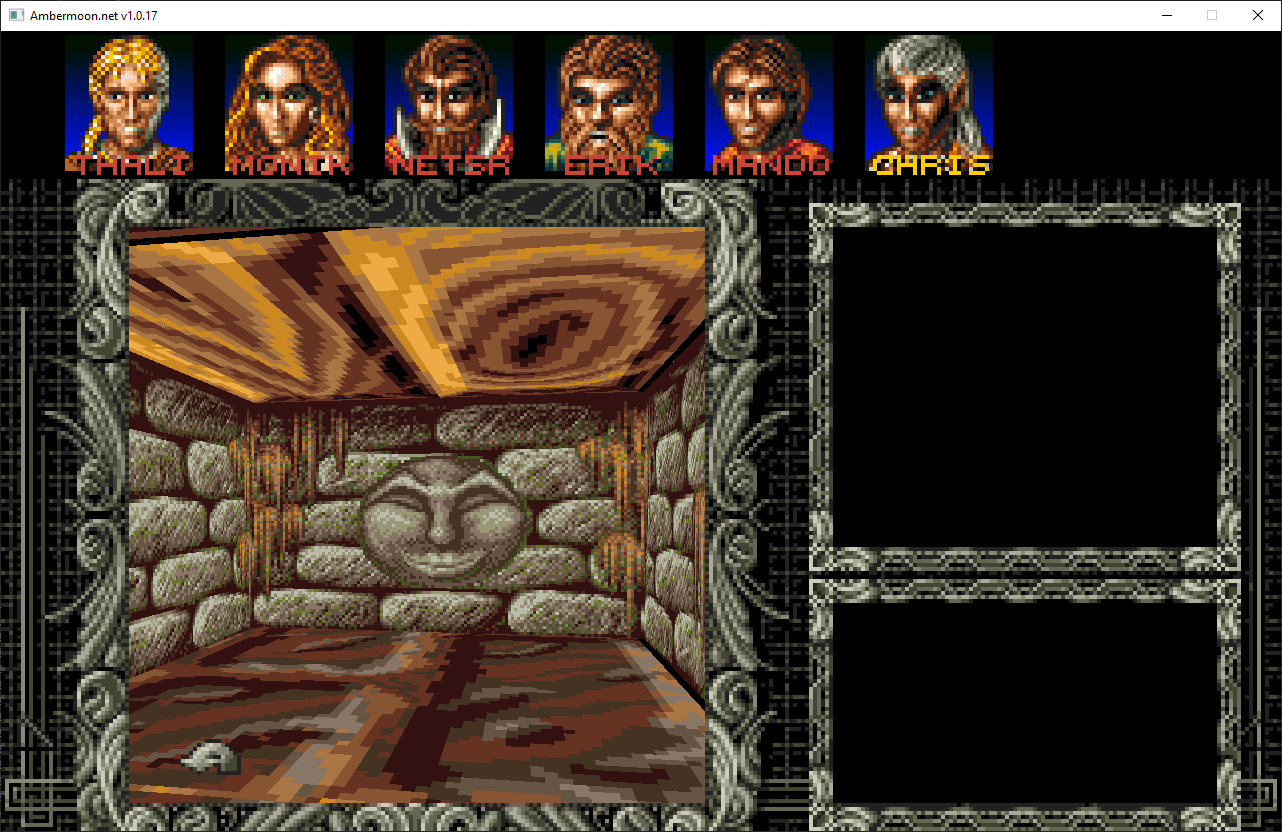
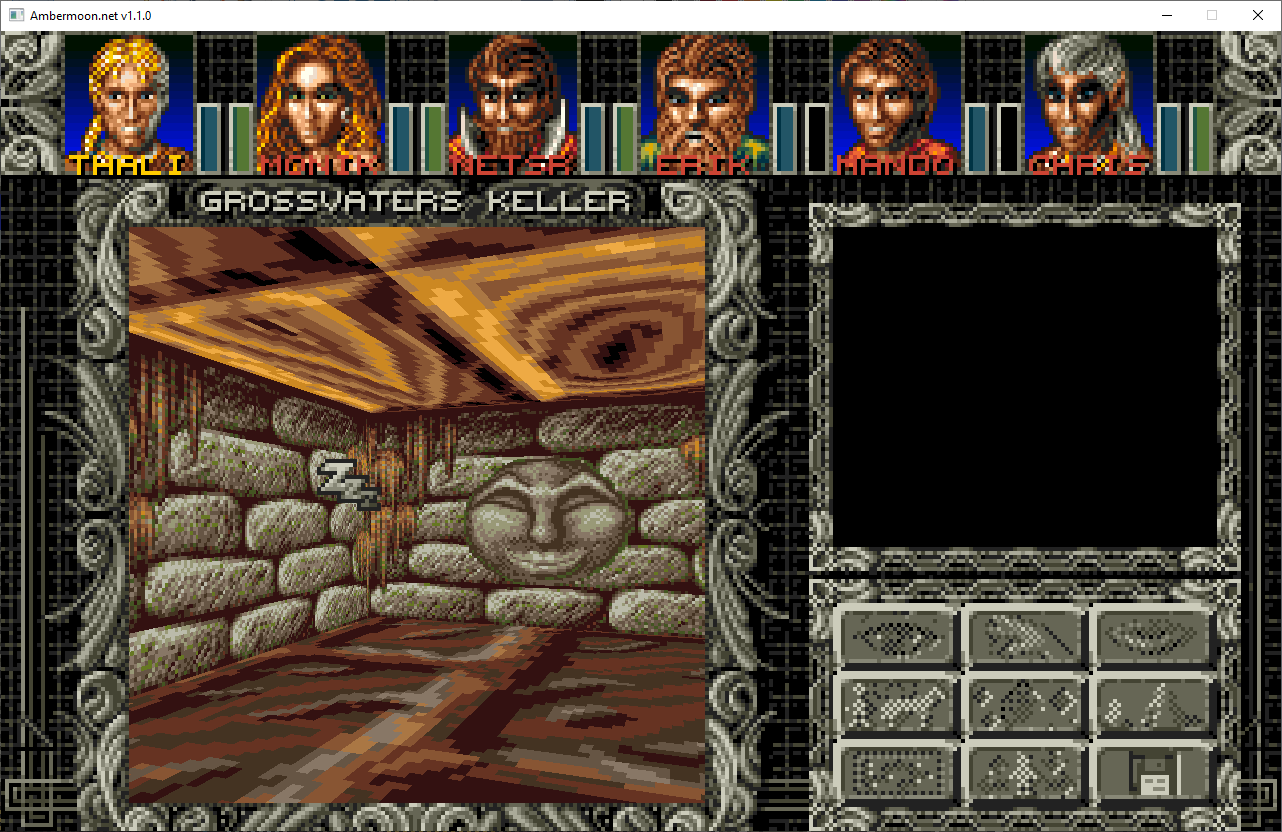
This is v1.1.0

diff --git a/Ambermoon.Core/UI/Layout.cs b/Ambermoon.Core/UI/Layout.cs
@@ -585,6 +585,18 @@ namespace Ambermoon.UI
                     buttonGrid.SetButton(7, ButtonType.GiveGold, true, null, false); // TODO: give gold
                     buttonGrid.SetButton(8, ButtonType.GiveFood, true, null, false); // TODO: give food
                     break;
+                case LayoutType.Items:
+                    // TODO: this is only for open chests now
+                    buttonGrid.SetButton(0, ButtonType.Empty, false, null, false);
+                    buttonGrid.SetButton(1, ButtonType.Empty, false, null, false);
+                    buttonGrid.SetButton(2, ButtonType.Exit, false, game.CloseWindow, false);
+                    buttonGrid.SetButton(3, ButtonType.Empty, false, null, false);
+                    buttonGrid.SetButton(4, ButtonType.DistributeGold, true, null, false); // TODO: distribute gold
+                    buttonGrid.SetButton(5, ButtonType.DistributeFood, true, null, false); // TODO: distribute food
+                    buttonGrid.SetButton(6, ButtonType.ViewItem, true, null, false); // TODO: view item
+                    buttonGrid.SetButton(7, ButtonType.GoldToPlayer, true, null, false); // TODO: gold to player
+                    buttonGrid.SetButton(8, ButtonType.FoodToPlayer, true, null, false); // TODO: food to player
+                    break;
                 // TODO
             }
         }

diff --git a/README.md b/README.md
@@ -1,5 +1,7 @@
 # Ambermoon.net
 
+Version 1.1.0 finally brings the load game menu to live. So you can now load your original savegames from within the game and play them! :)
+
 ### How to run the game
 
 I got some questions of how to run the game:
@@ -14,9 +16,9 @@ I got some questions of how to run the game:
 
 Version | OS
 --- | ---
+[1.1.0](https://github.com/Pyrdacor/Ambermoon.net/releases/download/v1.1.0/Ambermoon.net-Windows.zip) | Windows 64bit
 [1.0.19](https://github.com/Pyrdacor/Ambermoon.net/releases/download/v1.0.19/Ambermoon.net-Windows.zip) | Windows 64bit
 [1.0.18](https://github.com/Pyrdacor/Ambermoon.net/releases/download/v1.0.18/Ambermoon.net-Windows.zip) | Windows 64bit
-[1.0.17](https://github.com/Pyrdacor/Ambermoon.net/releases/download/v1.0.17/Ambermoon.net-Windows.zip) | Windows 64bit
 
 Older releases can be found [here](https://github.com/Pyrdacor/Ambermoon.net/releases). Other platforms will follow.
 
@@ -64,6 +66,7 @@ Working things:
 ![Billboards](https://github.com/Pyrdacor/Ambermoon.net/raw/master/Screenshots/Billboards1.png "Billboards")
 ![Chests](https://github.com/Pyrdacor/Ambermoon.net/raw/master/Screenshots/Chests.png "Chests")
 ![Inventory](https://github.com/Pyrdacor/Ambermoon.net/raw/master/Screenshots/Inventory.png "Inventory")
+![Load game](https://github.com/Pyrdacor/Ambermoon.net/raw/master/Screenshots/LoadWindow.png "Load game")
 
 
 ## Controls
@@ -85,6 +88,7 @@ F1-F6 | Open inventory of party member 1-6
 
 ## Change log
 
+- Version 1.1.0: Added option and load game menu, added savegame loading, fixed 3D textures, bugfixing
 - Version 1.0.19: Added portrait borders and character bars, added buttons for 2D/3D maps and inventory
 - Version 1.0.18: Map names, empty portrait slots, dead character portrait, bugfixes
 - Version 1.0.17: Character info, names at portraits, active member logic, fade effects
